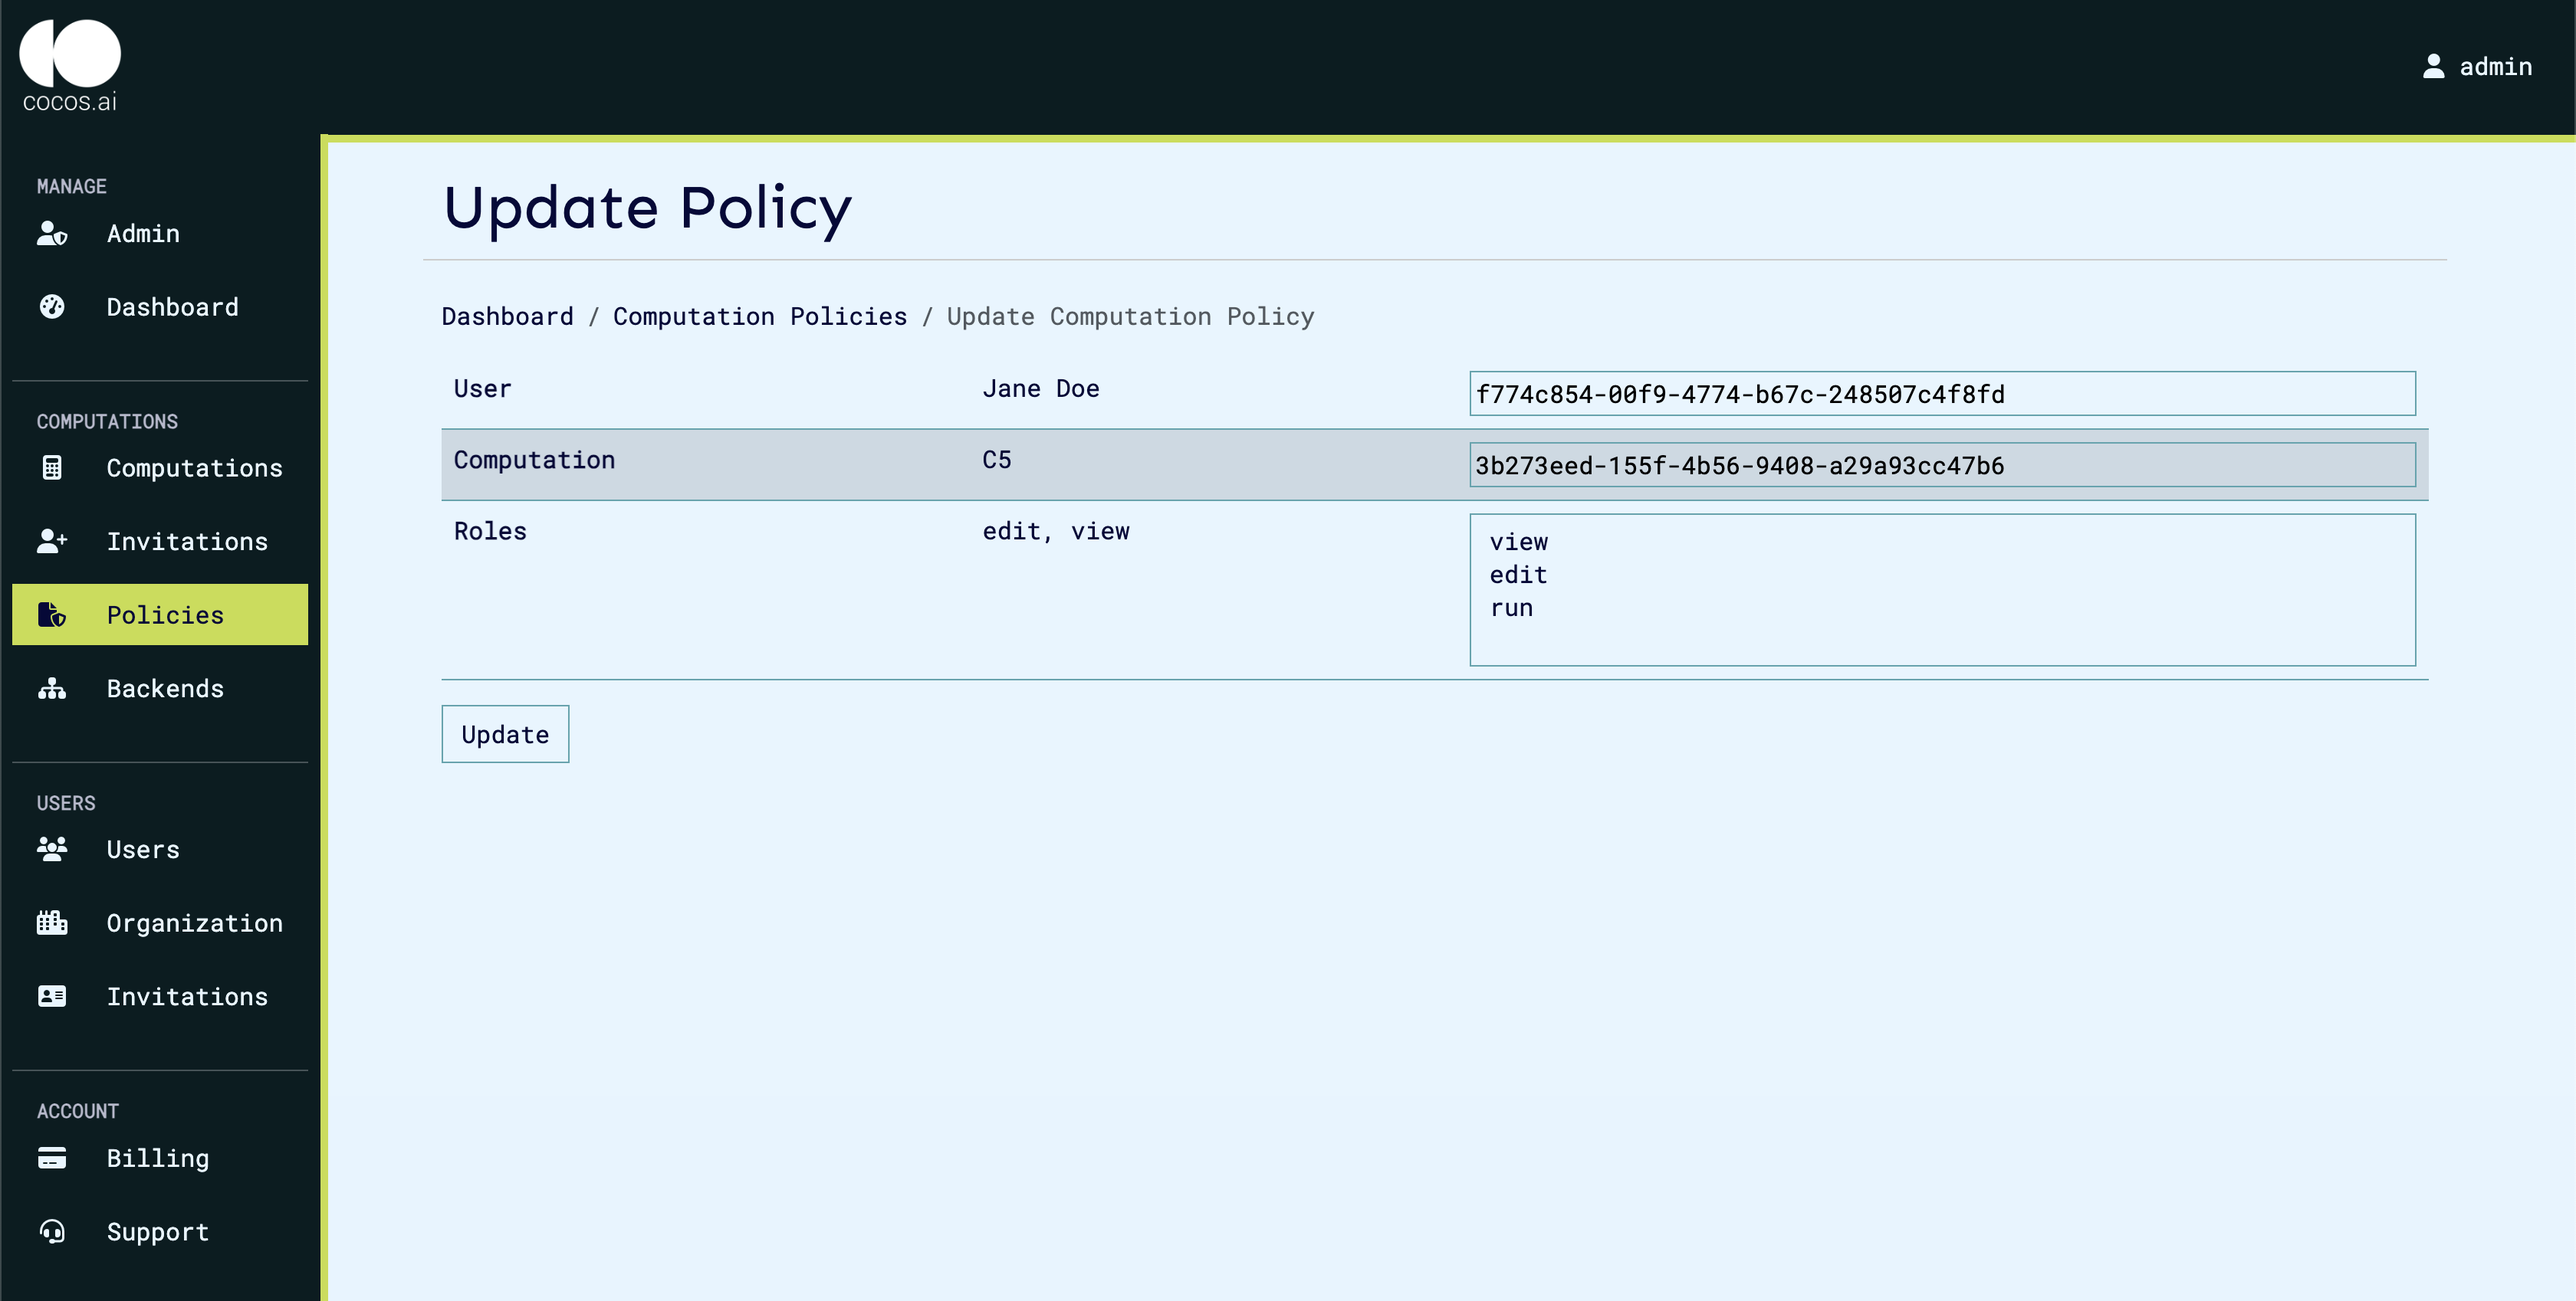
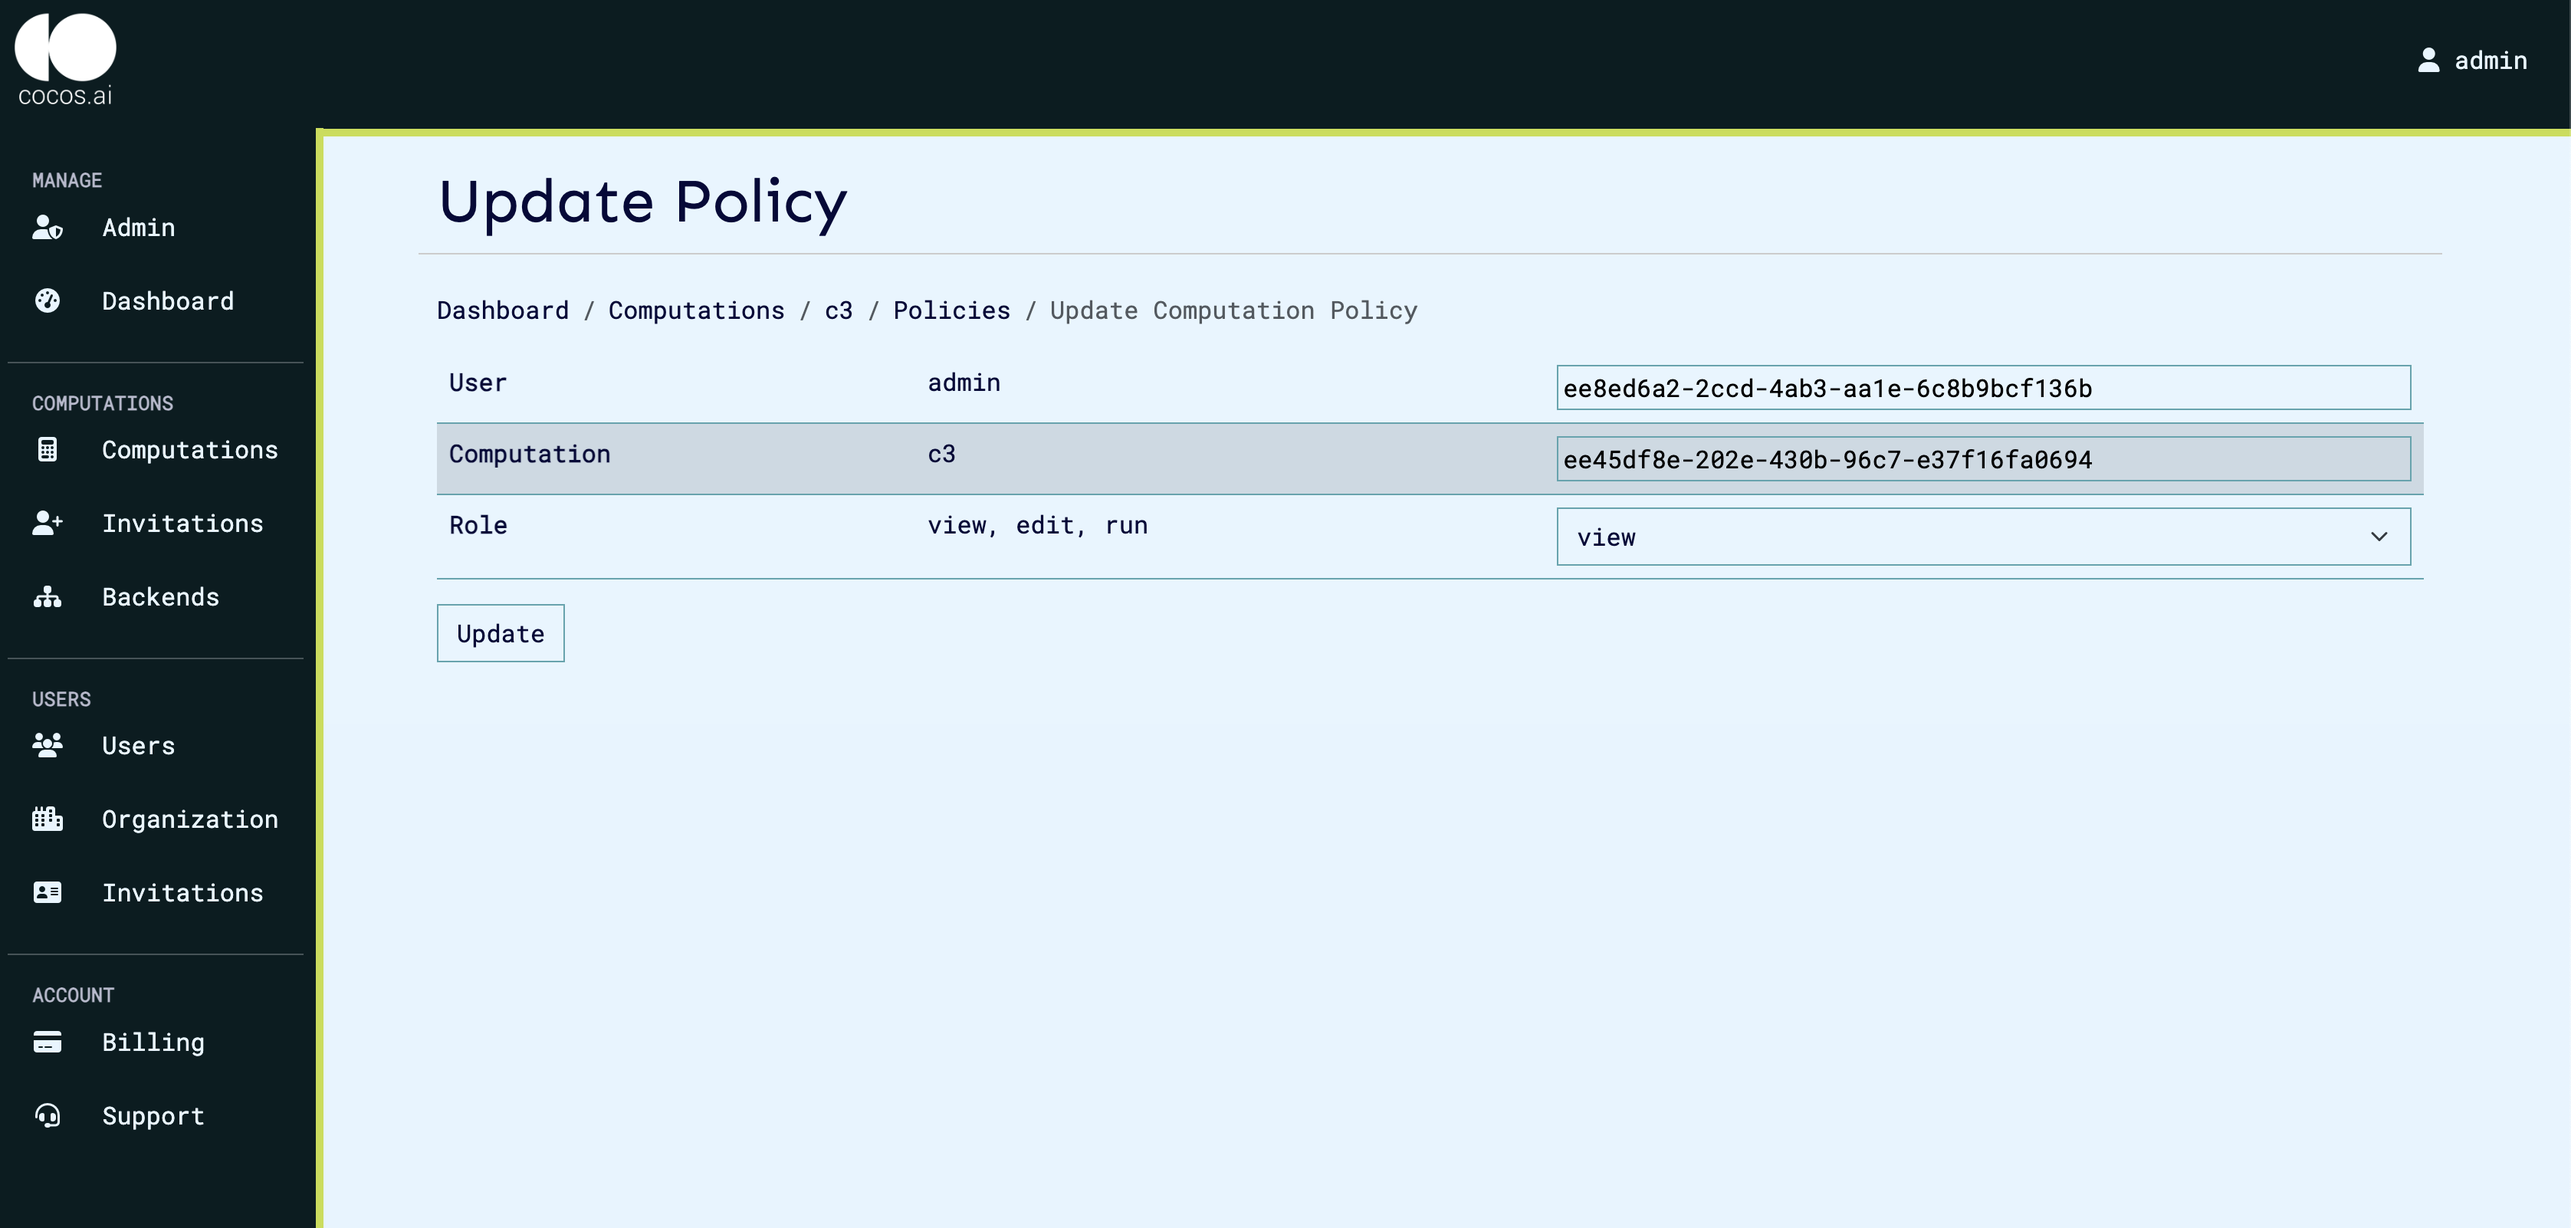
Update computation policies docs

diff --git a/docs/policies.md b/docs/policies.md
@@ -44,10 +44,14 @@ Content-Length: 0
 ```
 
 On the UI the steps are as follows:
-1. Login as an Administrator and click on 'Policies' on the side navigation panel. 
-2. Click on 'New Computation Policies' button on the top left.
-![List Policies](img/ui/policies.png)
-3. Select the required details and click 'Create'
+
+1. Login as an Administrator and click on 'Computations' on the side navigation panel.
+![List Computations](img/ui/computations%20list.png)
+2. Select a computation and click on 'Computation Policies'
+![List Policies](img/ui/to computation policies.png)
+3. Click on 'New Computation Policy' button on the top left.
+![List Policies](img/ui/computation policies.png)
+4. Select the required details and click 'Create'
 ![New Policy](img/ui/new policy.png)
 
 ### Updating Computation Policies
@@ -87,9 +91,14 @@ Content-Length: 0
 ```
 
 On the UI the steps are as follows:
-1. Click on the edit button on any of the policies to edit.
-![Update Policy](img/ui/update policy.png)
-2. Select required details and click on 'Update'.
+
+1. Login as an Administrator and click on 'Computations' on the side navigation panel.
+![List Computations](img/ui/computations%20list.png)
+2. Select a computation and click on 'Computation Policies'
+![List Policies](img/ui/to computation policies.png)
+3. Click on the edit button on any of the policies to edit.
+![List Policies](img/ui/computation policies.png)
+4. Select required details and click on 'Update'.
 ![Update Policy Page](img/ui/update policy page.png)
 
 
@@ -99,13 +108,13 @@ On the UI the steps are as follows:
 As an admin, you can list all the policies, while as a user you can only list your own policies.
 
 ```bash
-curl -isSX GET https://prism.ultraviolet.rs/computations/policies -H "Authorization: Bearer <user_token>"
+curl -isSX GET https://prism.ultraviolet.rs/computations/policies/<computation_id> -H "Authorization: Bearer <user_token>"
 ```
 
 For example:
 
 ```bash
-curl -isSX GET https://prism.ultraviolet.rs/computations/policies -H "Authorization: Bearer <user_token>"
+curl -isSX GET https://prism.ultraviolet.rs/computations/policies/3b273eed-155f-4b56-9408-a29a93cc47b6 -H "Authorization: Bearer <user_token>"
 
 HTTP/1.1 200 OK
 Content-Type: application/json
@@ -137,8 +146,11 @@ Content-Length: 1785
 ```
 
 On the UI the steps are as follows:
-1. Login as an Administrator and click on 'Policies' on the side navigation panel.
-![List Policies](img/ui/policies.png)
+
+1. Login as an Administrator and click on 'Computations' on the side navigation panel.
+![List Computations](img/ui/computations%20list.png)
+2. Select a computation and click on 'Computation Policies'
+![List Policies](img/ui/to computation policies.png)
 
 ### Delete Computation Policies
 
@@ -159,8 +171,13 @@ Date: Sun, 26 May 2024 11:05:16 GMT
 ```
 
 On the UI the steps are as follows:
-1. Click on the delete button on any of the policies to delete.
-![Delete Policy](img/ui/delete policy.png)
+
+1. Login as an Administrator and click on 'Computations' on the side navigation panel.
+![List Computations](img/ui/computations%20list.png)
+2. Select a computation and click on 'Computation Policies'
+![List Policies](img/ui/to computation policies.png)
+3. Click on the delete button on any of the policies to delete.
+![List Policies](img/ui/computation policies.png)
 
 
 If you delete policies, the policy will be removed from the policy storage. Further authorization checks related to that policy will fail.
